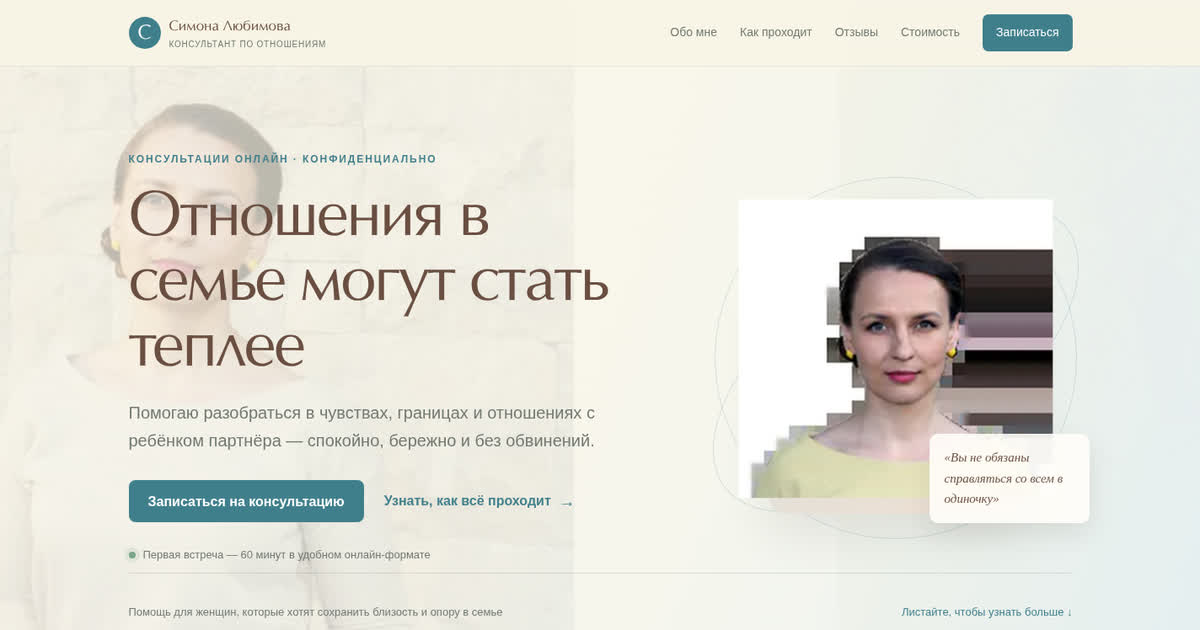
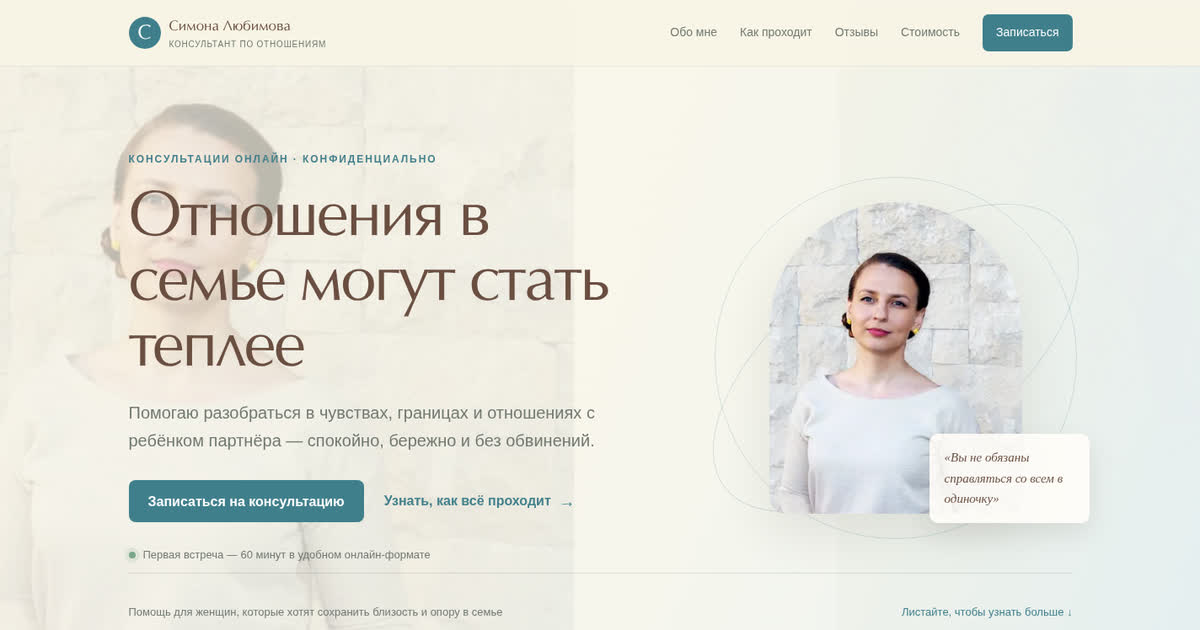
Fix: все работает лучше

Changed region(s): [[0.6167, 0.3016, 0.8942, 0.8143]]

diff --git a/src/style.css b/src/style.css
@@ -58,8 +58,8 @@ h3 { margin-bottom:10px; color:var(--ink); font-size:24px; line-height:1.2; }
 .hero-note { display:flex; align-items:center; gap:9px; margin-top:28px; color:var(--muted); font-size:13px; }
 .status-dot { width:8px; height:8px; border-radius:50%; background:#7aa689; box-shadow:0 0 0 5px rgba(122,166,137,.15); }
 .hero-visual { position:relative; display:grid; min-height:440px; place-items:center; }
-.portrait-card { position:relative; z-index:2; display:grid; width:300px; height:370px; place-items:end center; border-radius:150px 150px 20px 20px; background:linear-gradient(145deg,#d4e3e3,#f0dfd1); box-shadow:var(--shadow); }
-.portrait-card img { width:270px; max-width:none; margin-bottom:20px; transform:scale(1.38); transform-origin:bottom center; }
+.portrait-card { position:relative; z-index:2; width:300px; height:370px; overflow:hidden; border-radius:150px 150px 20px 20px; background:linear-gradient(145deg,#d4e3e3,#f0dfd1); box-shadow:var(--shadow); }
+.portrait-card img { width:100%; height:100%; max-width:none; object-fit:cover; object-position:30% center; }
 .hero-orbit { position:absolute; border:1px solid rgba(63,127,139,.2); border-radius:50%; }
 .orbit-one { width:430px; height:430px; }
 .orbit-two { width:510px; height:250px; transform:rotate(-37deg); }
@@ -159,7 +159,6 @@ h3 { margin-bottom:10px; color:var(--ink); font-size:24px; line-height:1.2; }
   .hero-actions .text-link { justify-content:center; }
   .hero-visual { min-height:330px; transform:none; }
   .portrait-card { width:230px; height:285px; }
-  .portrait-card img { width:215px; transform:scale(1.25); }
   .orbit-one { width:315px; height:315px; }
   .orbit-two { width:360px; height:180px; }
   .hero-quote { right:0; bottom:0; max-width:160px; font-size:13px; }

diff --git a/index.html b/index.html
@@ -30,7 +30,7 @@
     <meta name="twitter:image" content="https://lsimona.github.io/images/social-preview.jpg" />
     <meta name="twitter:image:alt" content="Симона Любимова — консультант по отношениям" />
     <link rel="canonical" href="https://lsimona.github.io/" />
-    <link rel="preload" href="/images/simona-upscaled.webp" as="image" type="image/webp" fetchpriority="high" />
+    <link rel="preload" href="/images/home-03.webp" as="image" type="image/webp" fetchpriority="high" />
     <link rel="icon" type="image/png" href="/images/favicon.png" />
     <link rel="manifest" href="/site.webmanifest" />
     <title>Симона Любимова — консультации об отношениях</title>
@@ -50,7 +50,7 @@
             "@id": "https://lsimona.github.io/#simona-lubimova",
             "name": "Симона Любимова",
             "url": "https://lsimona.github.io/",
-            "image": "https://lsimona.github.io/images/simona-upscaled.webp",
+            "image": "https://lsimona.github.io/images/home-03.webp",
             "jobTitle": "Консультант по отношениям",
             "knowsAbout": [
               "Семейные отношения",

diff --git a/src/App.vue b/src/App.vue
@@ -71,7 +71,7 @@ function closeMenu() {
         </div>
         <div class="hero-visual">
           <div class="hero-orbit orbit-one"></div><div class="hero-orbit orbit-two"></div>
-          <div class="portrait-card"><img src="/images/simona-upscaled.webp" alt="Симона Любимова" width="800" height="760" fetchpriority="high" decoding="async" /></div>
+          <div class="portrait-card"><img src="/images/home-03.webp" alt="Симона Любимова" width="1600" height="416" fetchpriority="high" decoding="async" /></div>
           <div class="hero-quote">«Вы не обязаны справляться со всем в одиночку»</div>
         </div>
       </div>
